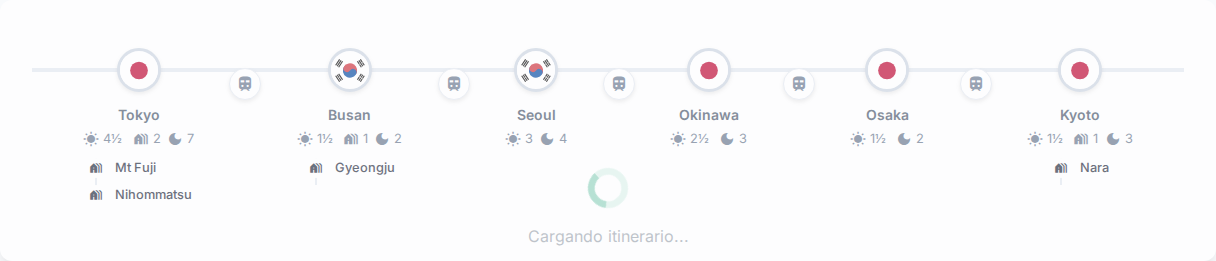
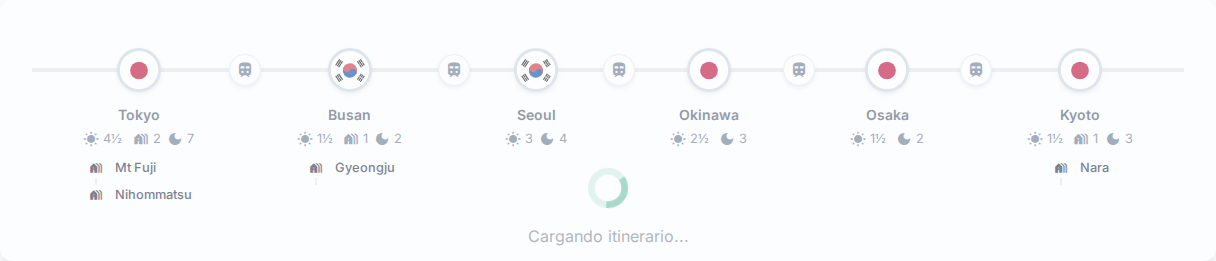
Fix mobile responsiveness issues
This commit addresses several responsiveness problems to improve the user experience on mobile devices.

- Makes the city timeline horizontally scrollable on mobile, preventing page overflow.
- Simplifies the timeline rendering by removing the JavaScript-based pagination, which was complex and not fully effective.
- Improves the responsiveness of modal windows by ensuring long text and URLs wrap correctly.

diff --git a/index.html b/index.html
@@ -231,38 +231,26 @@
         /* --- City Timeline Mobile Scroll --- */
         #city-timeline-container {
             position: relative;
+            overflow-x: auto; /* Enable horizontal scrolling */
+            padding-bottom: 1rem; /* Add some space for the scrollbar if visible */
         }
-        .scroll-arrow {
-            position: absolute;
-            top: 50%;
-            transform: translateY(-50%);
-            background-color: rgba(255, 255, 255, 0.9);
-            border-radius: 50%;
-            width: 40px;
-            height: 40px;
-            display: flex;
-            align-items: center;
-            justify-content: center;
-            cursor: pointer;
-            box-shadow: 0 2px 5px rgba(0,0,0,0.2);
-            z-index: 20;
-            transition: opacity 0.2s;
+        /* Hide scrollbar for a cleaner look on WebKit browsers */
+        #city-timeline-container::-webkit-scrollbar {
+            display: none;
         }
-        .scroll-arrow:disabled {
-            opacity: 0.3;
-            cursor: not-allowed;
+        /* Hide scrollbar for Firefox */
+        #city-timeline-container {
+            scrollbar-width: none; /* For Firefox */
+            -ms-overflow-style: none;  /* For Internet Explorer and Edge */
         }
-        .scroll-arrow.left { left: -10px; }
-        .scroll-arrow.right { right: -10px; }
-
         /* --- City Timeline Responsive Behavior --- */
         @media (min-width: 1024px) {
             .city-timeline {
                 flex-wrap: wrap;
                 justify-content: center;
             }
-            .scroll-arrow {
-                display: none;
+            #city-timeline-container {
+                overflow-x: visible; /* Disable scrolling on desktop */
             }
         }
 
@@ -274,6 +262,15 @@
         }
         .poi-category-details[open] .poi-list-modal {
             max-height: 1000px; /* Arbitrary large value */
+        }
+
+        /* --- Modal Content Responsiveness --- */
+        #modal-content {
+            word-wrap: break-word; /* For older browsers */
+            overflow-wrap: break-word; /* Standard property */
+        }
+        #modal-content a {
+            word-break: break-all; /* Force break for long URLs */
         }
 
         /* --- Atracciones Button --- */
@@ -471,7 +468,6 @@
 
         // --- Initialization & Setup ---
         const LG_BREAKPOINT = 1024;
-        let isMobile = window.innerWidth < LG_BREAKPOINT;
         
         const loadingOverlay = document.getElementById('loading-overlay');
         const mainContent = document.getElementById('main-content');
@@ -484,7 +480,6 @@
         
         // --- State Variables ---
         let currentDayIndex = 0;
-        let cityPageIndex = 0;
         let groupedByDay = [];
         let mainMarker = null;
         let map;
@@ -751,15 +746,7 @@
 
         function renderCityTimeline() {
             const allCities = Object.keys(cityStays);
-            const windowSize = 2;
-
-            if (isMobile) {
-                cityPageIndex = Math.max(0, Math.min(cityPageIndex, allCities.length - windowSize));
-            }
-
-            const citiesToShow = isMobile && allCities.length > windowSize
-                ? allCities.slice(cityPageIndex, cityPageIndex + windowSize)
-                : allCities;
+            const citiesToShow = allCities; // Always show all cities
 
             const timelineDiv = document.createElement('div');
             timelineDiv.className = 'city-timeline';
@@ -844,24 +831,6 @@
                 });
             }, 0);
 
-
-            if (isMobile && allCities.length > windowSize) {
-                const leftArrow = document.createElement('button');
-                leftArrow.className = 'scroll-arrow left';
-                leftArrow.innerHTML = `<span class="material-symbols-outlined">arrow_back_ios</span>`;
-                leftArrow.disabled = cityPageIndex === 0;
-                leftArrow.onclick = () => { if (cityPageIndex > 0) { cityPageIndex--; renderCityTimeline(); } };
-
-                const rightArrow = document.createElement('button');
-                rightArrow.className = 'scroll-arrow right';
-                rightArrow.innerHTML = `<span class="material-symbols-outlined">arrow_forward_ios</span>`;
-                rightArrow.disabled = cityPageIndex >= allCities.length - windowSize;
-                rightArrow.onclick = () => { if (cityPageIndex < allCities.length - windowSize) { cityPageIndex++; renderCityTimeline(); } };
-
-                cityTimelineContainer.appendChild(leftArrow);
-                cityTimelineContainer.appendChild(rightArrow);
-            }
-
             if (groupedByDay.length > 0) {
                 const currentEventTime = groupedByDay[currentDayIndex].date;
                 updateCityTimelineActiveState(currentEventTime);
@@ -872,25 +841,6 @@
             if (groupedByDay.length === 0) return;
 
             const currentDayData = groupedByDay[currentDayIndex];
-            const allCities = Object.keys(cityStays);
-            const windowSize = 2;
-
-            if (isMobile) {
-                const activeCity = getActiveCity(currentDayData.date);
-                if (activeCity) {
-                    const activeCityIndex = allCities.indexOf(activeCity);
-                    if (activeCityIndex !== -1) {
-                        let targetIndex = activeCityIndex - 1;
-                        const maxIndex = allCities.length > windowSize ? allCities.length - windowSize : 0;
-                        targetIndex = Math.max(0, Math.min(targetIndex, maxIndex));
-                        if (cityPageIndex !== targetIndex) {
-                            cityPageIndex = targetIndex;
-                            renderCityTimeline();
-                        }
-                    }
-                }
-            }
-
             const date = currentDayData.date;
             const dayName = date.toLocaleDateString('es-ES', { weekday: 'long' });
             dateDisplay.innerHTML = `
@@ -1013,14 +963,6 @@
 
         nextDayBtn.addEventListener('click', () => {
             if (currentDayIndex < groupedByDay.length - 1) { currentDayIndex++; renderDayView(); }
-        });
-
-        window.addEventListener('resize', () => {
-            const newIsMobile = window.innerWidth < LG_BREAKPOINT;
-            if (newIsMobile !== isMobile) {
-                isMobile = newIsMobile;
-                renderCityTimeline();
-            }
         });
 
         // --- Modals ---
